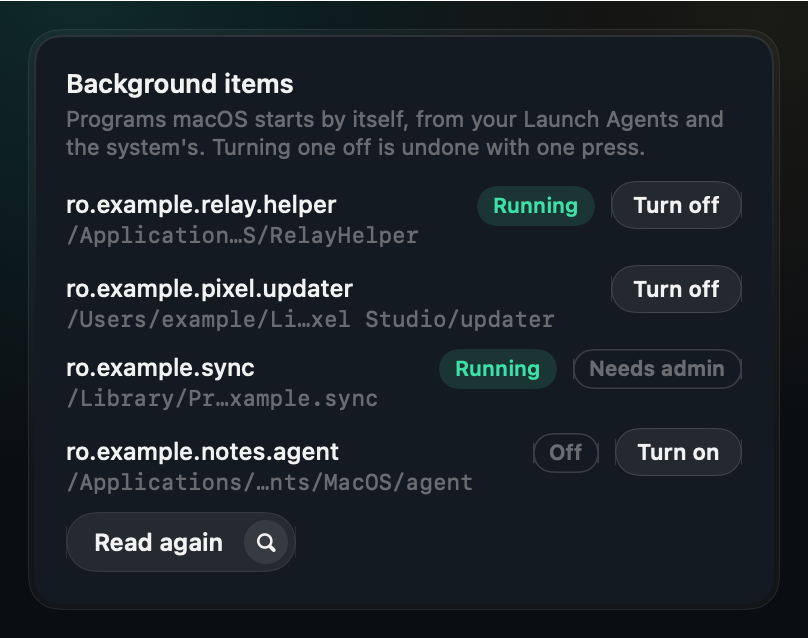
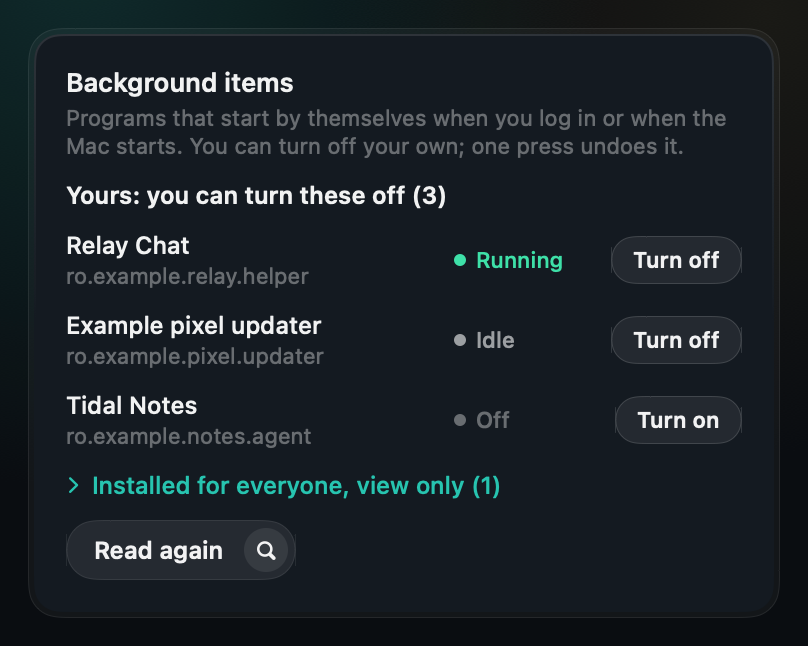
feat: Background items shows readable names, lines up status and buttons, and splits what you can turn off from what is view only

diff --git a/Sources/MacMax/StartupCard.swift b/Sources/MacMax/StartupCard.swift
@@ -1,33 +1,23 @@
 import MacMaxCore
 import SwiftUI
 
-/// What starts by itself on this Mac. The user's own agents can be turned off and on again; the system-wide ones are
-/// only listed, because changing them needs an administrator and MacMax never asks for that.
+/// What starts by itself on this Mac, in two groups: the user's own agents, which can be turned off and on again, and
+/// everything else, which is only listed (changing it needs an administrator and MacMax never asks for that).
 struct StartupCard: View {
     let model: PanelModel
-    @State private var showAll = false
-    private static let preview = 8
+    @State private var showOthers = false
+    private static let statusWidth: CGFloat = 64
+    private static let actionWidth: CGFloat = 72
 
     var body: some View {
-        SettingsCard(title: "Background items", detail: "Programs macOS starts by itself, from your Launch Agents and the system's. Turning one off is undone with one press.") {
-            VStack(alignment: .leading, spacing: 8) {
+        SettingsCard(title: "Background items", detail: "Programs that start by themselves when you log in or when the Mac starts. You can turn off your own; one press undoes it.") {
+            VStack(alignment: .leading, spacing: 10) {
                 switch model.startupState {
                 case let .loading(text): OperationProgress(text: text)
                 case let .failed(collector, reason): Text("\(collector): \(reason)").font(.meta).foregroundStyle(Theme.warn)
                 case .ready: EmptyView()
                 }
-                if let items = model.startupItems {
-                    if model.startupUnreadable > 0 {
-                        Text("\(model.startupUnreadable) item\(model.startupUnreadable == 1 ? "" : "s") could not be read, so this list may be incomplete.")
-                            .font(.meta).foregroundStyle(Theme.warn).fixedSize(horizontal: false, vertical: true)
-                    }
-                    if items.isEmpty { Text("Nothing starts in the background from these folders.").font(.meta).foregroundStyle(Theme.textSecondary) }
-                    ForEach(showAll ? items : Array(items.prefix(Self.preview))) { row($0) }
-                    if items.count > Self.preview {
-                        Button(showAll ? "Show fewer" : "Show all \(items.count)") { showAll.toggle() }
-                            .buttonStyle(.plain).font(.system(size: 12, weight: .medium)).foregroundStyle(Theme.teal)
-                    }
-                }
+                if let items = model.startupItems { list(items) }
                 if !model.startupState.isReading {
                     PillButton(title: model.startupItems == nil ? "Look at background items" : "Read again", symbol: "magnifyingglass",
                                prominent: false) { model.scanStartup() }
@@ -37,36 +27,71 @@ struct StartupCard: View {
         .onAppear { if model.startupItems == nil { model.scanStartup() } }
     }
 
-    private func row(_ item: StartupItem) -> some View {
+    @ViewBuilder private func list(_ items: [StartupItem]) -> some View {
+        let yours = items.filter { isControllable($0, in: items) }
+        let others = items.filter { item in !yours.contains { $0.id == item.id } }
+        if model.startupUnreadable > 0 {
+            Text("\(model.startupUnreadable) file\(model.startupUnreadable == 1 ? "" : "s") in the launch folders could not be read, so this list may miss some.")
+                .font(.meta).foregroundStyle(Theme.warn).fixedSize(horizontal: false, vertical: true)
+        }
+        if items.isEmpty { Text("Nothing starts in the background from these folders.").font(.meta).foregroundStyle(Theme.textSecondary) }
+        if !yours.isEmpty {
+            groupTitle("Yours: you can turn these off", count: yours.count)
+            ForEach(yours) { row($0, action: true) }
+        }
+        if !others.isEmpty {
+            Button { showOthers.toggle() } label: {
+                HStack(spacing: 6) {
+                    Image(systemName: showOthers ? "chevron.down" : "chevron.right").font(.system(size: 9, weight: .semibold))
+                    Text("Installed for everyone, view only (\(others.count))").font(.system(size: 12, weight: .medium))
+                }.foregroundStyle(Theme.teal).contentShape(Rectangle())
+            }.buttonStyle(.plain)
+            if showOthers {
+                Text("These belong to apps and macOS for all users of this Mac. Changing them needs an administrator, so MacMax only shows them.")
+                    .font(.meta).foregroundStyle(Theme.textSecondary).fixedSize(horizontal: false, vertical: true)
+                ForEach(others) { row($0, action: false) }
+            }
+        }
+    }
+
+    private func groupTitle(_ text: String, count: Int) -> some View {
+        Text("\(text) (\(count))").font(.system(size: 12, weight: .semibold)).foregroundStyle(Theme.textPrimary)
+    }
+
+    private func row(_ item: StartupItem, action: Bool) -> some View {
         let state = model.actionStates["startup-\(item.path)"]
         return VStack(alignment: .leading, spacing: 3) {
-            HStack(alignment: .firstTextBaseline, spacing: 8) {
+            HStack(alignment: .center, spacing: 8) {
                 VStack(alignment: .leading, spacing: 1) {
-                    Text(Redaction.sanitizeText(Redaction.redact([item.label]).joined(separator: " "))).font(.system(size: 12, weight: .medium)).foregroundStyle(Theme.textPrimary).lineLimit(1).truncationMode(.middle)
-                    if let program = item.program {
-                        Text(Self.shortened(Redaction.sanitizeText(Redaction.redact([program]).joined(separator: " ")))).font(.system(size: 11, design: .monospaced)).foregroundStyle(Theme.textTertiary)
-                            .lineLimit(1).truncationMode(.middle)
-                    }
+                    Text(Self.title(item)).font(.system(size: 12, weight: .medium)).foregroundStyle(Theme.textPrimary).lineLimit(1).truncationMode(.tail)
+                    Text(Redaction.sanitizeText(item.label)).font(.system(size: 11)).foregroundStyle(Theme.textTertiary)
+                        .lineLimit(1).truncationMode(.middle)
                 }
-                Spacer(minLength: 8)
-                if item.isRunning { Chip(text: "Running", color: Theme.success, style: .tinted) }
-                if item.isDisabled { Chip(text: "Off", color: Theme.textTertiary, style: .outline) }
-                control(item, busy: state?.isWorking == true)
+                .help(Self.location(item))
+                Spacer(minLength: 4)
+                status(item).frame(width: Self.statusWidth, alignment: .leading)
+                if action {
+                    ChipButton(title: item.isDisabled ? "Turn on" : "Turn off") { model.setStartupEnabled(item, item.isDisabled) }
+                        .fixedSize().disabled(state?.isWorking == true || !isReady)
+                        .frame(width: Self.actionWidth, alignment: .trailing)
+                }
             }
             if let state, state.isWorking { OperationProgress(text: state.text) }
             else if let state { Text(state.text).font(.meta).foregroundStyle(state.isProblem ? Theme.warn : Theme.textSecondary) }
         }
     }
 
-    @ViewBuilder private func control(_ item: StartupItem, busy: Bool) -> some View {
-        if (model.startupItems ?? []).filter({ $0.label == item.label }).count > 1 {
-            Chip(text: "Same name twice", color: Theme.textTertiary, style: .outline)
-        } else if StartupControl.disableCommands(for: item, uid: getuid()) == nil {
-            Chip(text: item.scope == .userAgent ? "Protected" : "Needs admin", color: Theme.textTertiary, style: .outline)
-        } else {
-            ChipButton(title: item.isDisabled ? "Turn on" : "Turn off") { model.setStartupEnabled(item, item.isDisabled) }
-                .fixedSize().disabled(busy || !isReady)
+    private func status(_ item: StartupItem) -> some View {
+        let (text, color) = item.isRunning ? ("Running", Theme.success) : item.isDisabled ? ("Off", Theme.textTertiary) : ("Idle", Theme.textSecondary)
+        return HStack(spacing: 5) {
+            Circle().fill(color).frame(width: 6, height: 6)
+            Text(text).font(.system(size: 11, weight: .medium)).foregroundStyle(color)
         }
+    }
+
+    /// Only the user's own agents that MacMax may touch, and whose name is unique, get a button.
+    private func isControllable(_ item: StartupItem, in items: [StartupItem]) -> Bool {
+        StartupControl.disableCommands(for: item, uid: getuid()) != nil && items.filter { $0.label == item.label }.count == 1
     }
 
     /// Only a list that was just read in full may be acted on: while it reloads, or after a failed read, it is stale.
@@ -75,9 +100,21 @@ struct StartupCard: View {
         return false
     }
 
-    private static func shortened(_ path: String) -> String {
+    /// A readable name: the app the program lives in, else the label without its domain prefix ("com.adobe.GC.AGM" -> "Adobe GC AGM").
+    static func title(_ item: StartupItem) -> String {
+        if let app = item.program?.split(separator: "/").first(where: { $0.hasSuffix(".app") }) {
+            return Redaction.sanitizeText(String(app.dropLast(4)))
+        }
+        var parts = item.label.split(separator: ".").map(String.init)
+        if parts.count > 2, ["com", "org", "net", "io", "ro", "eu", "app", "co"].contains(parts[0].lowercased()) { parts.removeFirst() }
+        let name = parts.joined(separator: " ")
+        return Redaction.sanitizeText(name.prefix(1).uppercased() + name.dropFirst())
+    }
+
+    private static func location(_ item: StartupItem) -> String {
+        let program = item.program.map { Redaction.sanitizeText(Redaction.redact([$0]).joined(separator: " ")) } ?? "unknown program"
         let home = NSHomeDirectory()
-        return path.hasPrefix(home) ? "~" + path.dropFirst(home.count) : path
+        return program.hasPrefix(home) ? "~" + program.dropFirst(home.count) : program
     }
 }
 
